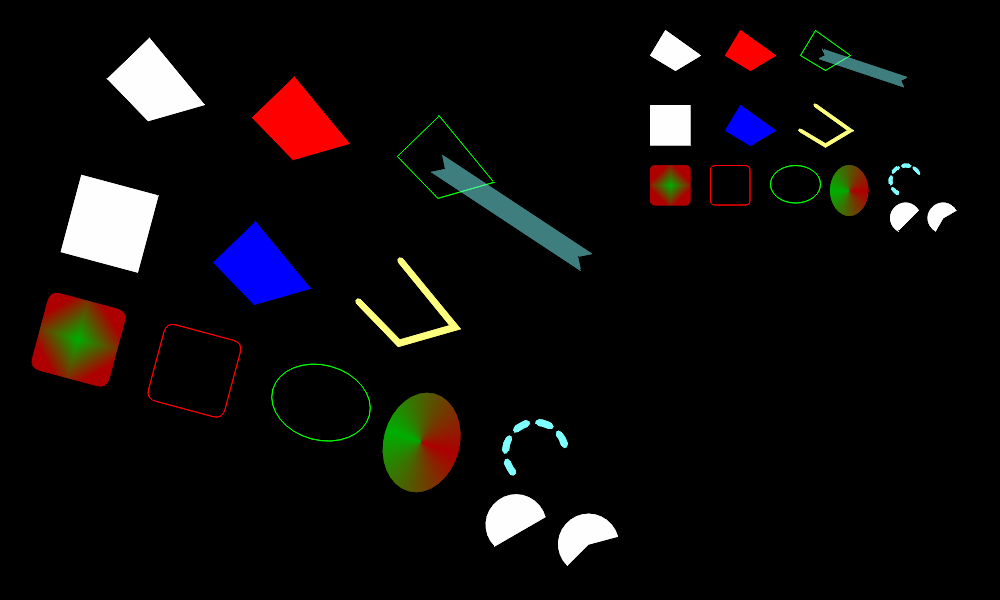
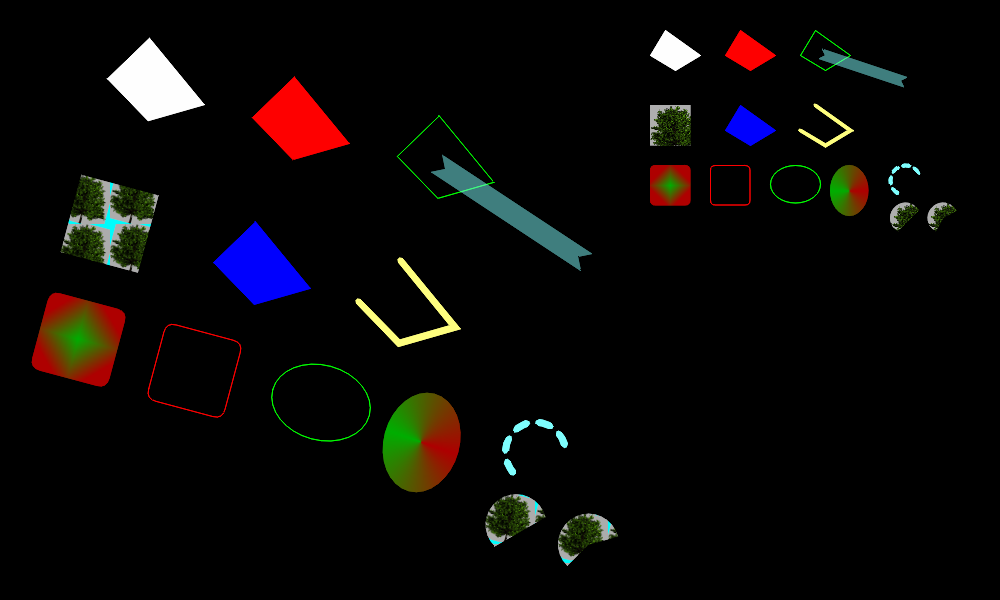
Implementing texture rotation on SGNode

diff --git a/src/Pt-Gfx/SGNode.cpp b/src/Pt-Gfx/SGNode.cpp
@@ -99,16 +99,22 @@ void SGNode::draw(ImagePainter2& painter, const TransformT* transform_)
             }
             // Set this node's brush to the painter as needed
             if(!eCur.node->_brush.isNull()) {
-                // If the brush is a gradient, adjust its rotation as needed
-                if(eCur.node->_brush.isGradient()) {
+                // If the brush is a texture or a 2D gradient, adjust its rotation as needed
+                if(eCur.node->_brush.isTexture() || eCur.node->_brush.isGradient()) {
                     // Calculate the new gradient rotation and ensure that it is within the acceptable range
                     const ValueT orgRot = eCur.node->_brush.rotation();
                           ValueT newRot = orgRot + transform.extractRotation();
                     while(newRot < -360) newRot += 360;
                     while(newRot >  360) newRot -= 360;
-                    // Assign a new brush with the original gradient rotation
+                    // Assign the original brush as the painter's brush
                     if(orgRot == newRot) {
                         painter.setBrush(eCur.node->_brush);
+                    }
+                    // Assign a new brush with the updated texture rotation
+                    else if(eCur.node->_brush.isTexture()) {
+                        Brush newBrush = eCur.node->_brush;
+                        newBrush.setTextureRotation(newRot, eCur.node->_trCFil, eCur.node->_trMode);
+                        painter.setBrush(newBrush);
                     }
                     // Assign a new brush with the updated gradient rotation
                     else {
@@ -117,8 +123,7 @@ void SGNode::draw(ImagePainter2& painter, const TransformT* transform_)
                         painter.setBrush(newBrush);
                     }
                 }
-                // Not a gradient
-                // ### TODO: Rotate the texture???  ###
+                // Other brush types
                 else {
                     painter.setBrush(eCur.node->_brush);
                 }

diff --git a/src/Pt-Gfx/tests/ImagePainterTest2_SceneGraph.cpp b/src/Pt-Gfx/tests/ImagePainterTest2_SceneGraph.cpp
@@ -9,6 +9,13 @@ static void testSceneGraph(const char* title, Image& image, Painter& painter)
 
     SGNodePath psgn;
 
+    // Generate scaled textures
+    Image scaledTexH( textureWithWhiteBackground.format(), Size(textureWithWhiteBackground.width() / 2, textureWithWhiteBackground.height() / 2) );
+    Image scaledTexQ( textureWithWhiteBackground.format(), Size(textureWithWhiteBackground.width() / 4, textureWithWhiteBackground.height() / 4) );
+
+    bilinearScale(scaledTexH, textureWithWhiteBackground);
+    bilinearScale(scaledTexQ, scaledTexH                );
+
     // Generate a new path
     Path pathPoly4;
 
@@ -39,18 +46,19 @@ static void testSceneGraph(const char* title, Image& image, Painter& painter)
 
         // 2nd-child's 2nd child
         SGNodePath* csgn2_2 = &csgn2->addChild( new SGNodePath( SGNode::RenderInherit, pathPoly4 ) );
-                    csgn2_2->setBrush( Color::fromRgb8(0, 0, 255) );
                     csgn2_2->transform().translate(0, 150);
+                    csgn2_2->setBrush( Color::fromRgb8(0, 0, 255) );
 
         // 2nd-child's 3rd child
         SGNodePath* csgn2_3 = &csgn2->addChild( new SGNodePath( SGNode::RenderStroke, pathPoly4 ) );
-                    csgn2_3->setPen( Pen(Color::fromRgb8(255, 255, 127), 6, Pen::Solid, Pen::RoundCap, Pen::MiterJoin) );
                     csgn2_3->transform().translate(150, 150);
-
+                    csgn2_3->setPen( Pen(Color::fromRgb8(255, 255, 127), 6, Pen::Solid, Pen::RoundCap, Pen::MiterJoin) );
 
     // Parent's 3rd child
     SGNodeRectangle* csgn3 = &psgn.addChild( new SGNodeRectangle( SGNode::RenderFill, RectF(PointF(0, 0), SizeF(80, 80)) ) );
                      csgn3->transform().translate(0, 150);
+                     csgn3->setBrush( scaledTexQ );
+                     csgn3->setTextureRotationParameters( Color::fromRgb8(0, 255, 255, 255), Brush::Bilinear );
 
         // 3rd-child's 1st child
         SGNodeRectangle* csgn3_1 = &csgn3->addChild( new SGNodeRectangle( SGNode::RenderFill, RectF(PointF(0, 0), SizeF(80, 80)), 10 ) );

diff --git a/include/Pt/Gfx/SGNode.h b/include/Pt/Gfx/SGNode.h
@@ -80,20 +80,20 @@ class PT_GFX_API SGNode {
         inline SGNode(RenderMode rm)
         : _parent(0)
         , _rm    (rm)
-        {}
+        { setTextureRotationParameters(); }
 
         inline SGNode(RenderMode rm, const TransformT& transform)
         : _parent   (0)
         , _rm       (rm)
         , _transform( transform )
-        {}
+        { setTextureRotationParameters(); }
 
         inline SGNode(RenderMode rm, const TransformT& transform, const Children& children)
         : _parent   (0)
         , _rm       (rm)
         , _transform( transform )
         , _children ( children )
-        {}
+        { setTextureRotationParameters(); }
 
         virtual ~SGNode();
 
@@ -150,6 +150,12 @@ class PT_GFX_API SGNode {
 
         inline void setBrush(const Brush& brush)
         { _brush = brush; }
+
+        inline void setTextureRotationParameters(const Color& colorFill = Color::fromRgb8(0, 0, 0, 255), Brush::TextureRotationMode mode = Brush::BlockFullscale)
+        {
+            _trCFil = colorFill;
+            _trMode = mode;
+        }
 
         void draw(ImagePainter2& painter, const TransformT* transform = 0);
 
@@ -212,6 +218,9 @@ class PT_GFX_API SGNode {
         Brush      _brush;
         TransformT _transform;
         Children   _children;
+
+        Color                      _trCFil;
+        Brush::TextureRotationMode _trMode;
 };
 
 
